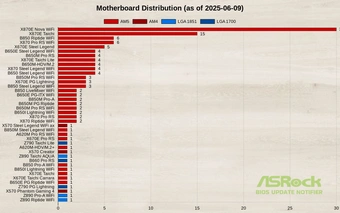
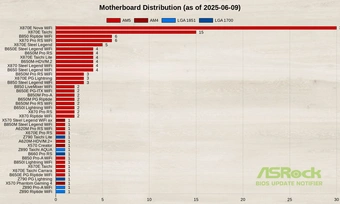
adjust 'suggestedMax' for barDistrib (didn't seem to work - maybe need to increase width)

diff --git a/public/js/chartMan.js b/public/js/chartMan.js
@@ -146,6 +146,12 @@ function createMoboBarChart(data) {
   const minHeight = 420; // Minimum height to ensure readability.
   const calculatedHeight = Math.max(dynamicHeight, minHeight);
 
+  // Determine a suitable suggestedMax for the x-axis
+  // This can be a fixed value, or dynamically calculated
+  const maxCount = Math.max(...counts);
+  let suggestedXMax = Math.ceil(maxCount / 5) * 5; // Round up to the nearest 5, for example
+  if (suggestedXMax < 10) suggestedXMax = 10; // Ensure a minimum scale for smaller counts
+
   return {
     calculatedHeight: calculatedHeight,
     type: "horizontalBar",
@@ -173,6 +179,8 @@ function createMoboBarChart(data) {
           {
             ticks: {
               fontColor: "black", // v2: 'color' is 'fontColor'
+              beginAtZero: true, // Ensure the axis starts at zero
+              suggestedMax: suggestedXMax, // Add this line to extend the x-axis
             },
             gridLines: {
               // v2: 'grid' is 'gridLines'
